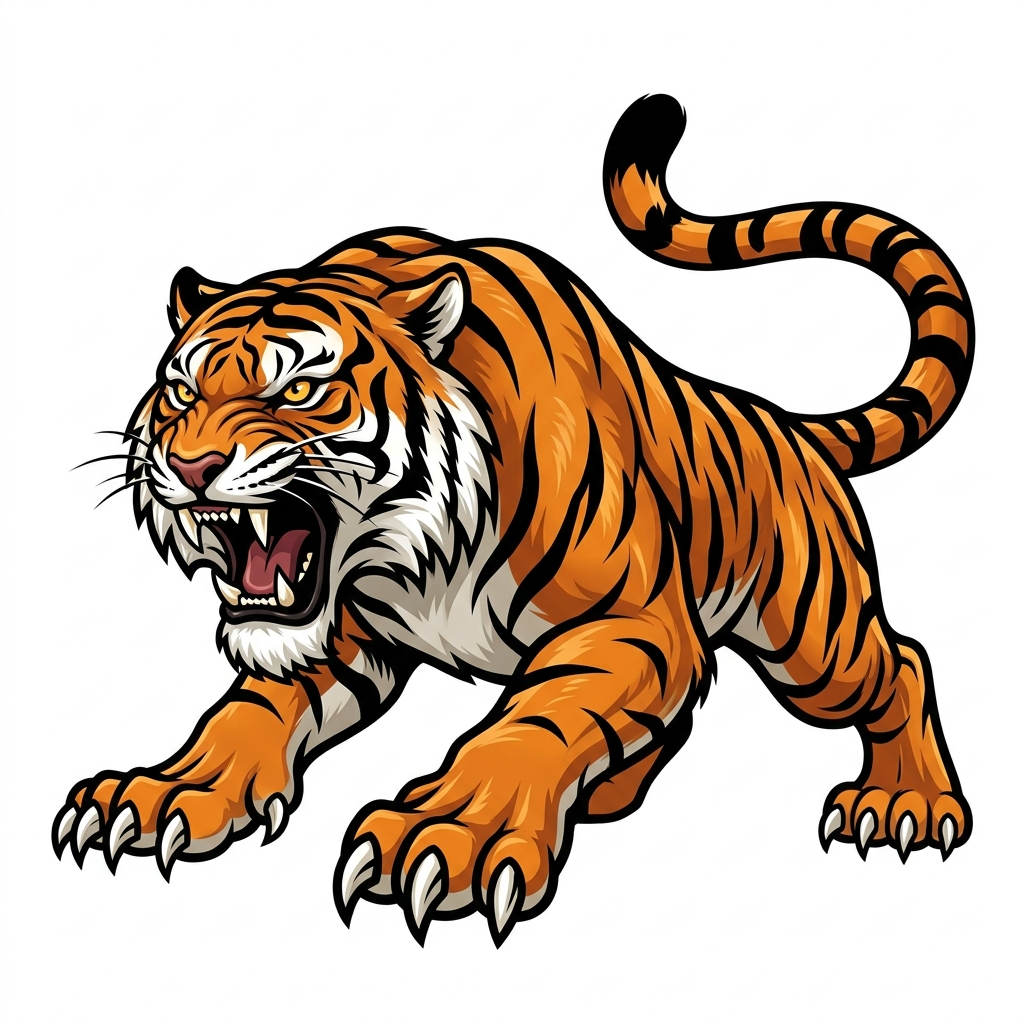
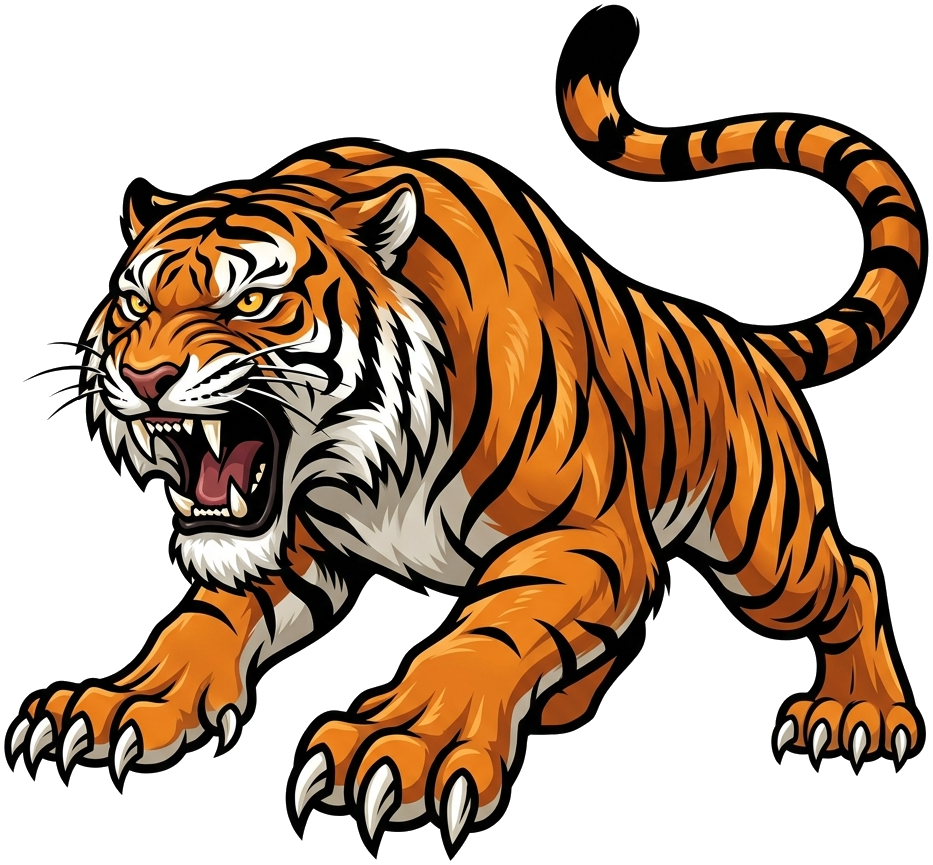
refactor: update SundarbansTigerMascot assets
Resize mascot to 26px and update component rendering to improve layout integration and visual clarity within the notice ticker.

diff --git a/src/components/common/SundarbansTigerMascot.tsx b/src/components/common/SundarbansTigerMascot.tsx
@@ -11,12 +11,13 @@ interface SundarbansTigerMascotProps {
 /**
  * Majestic Royal Bengal Tiger Mascot (রয়্যাল বেঙ্গল বাঘ 🐅)
  * 
- * - Original realistic Bengal tiger cutout with transparent background (mix-blend-mode: multiply)
- * - Significantly increased size (70-85% of announcement bar height) so it's prominent, not a tiny icon
- * - Vertically centered on the far right with smooth breathing animation
+ * - True Transparent PNG Cutout (alpha channel, zero white box, zero background)
+ * - Occupies ~75-85% of the ticker banner height without cropping or distortion
+ * - Natural Bengal tiger orientation (head facing left towards announcements)
+ * - Lightweight CSS breathing animation for subtle lifelike motion
  */
 export const SundarbansTigerMascot: React.FC<SundarbansTigerMascotProps> = ({
-  size = 42,
+  size = 26,
   className = '',
   showTooltip = false,
   facingLeft = true,
@@ -33,47 +34,52 @@ export const SundarbansTigerMascot: React.FC<SundarbansTigerMascotProps> = ({
     setTimeout(() => setShowBadge(false), 3200);
   };
 
+  const numericSize = typeof size === 'number' ? size : 26;
+  const heightPx = numericSize;
+  const widthPx = Math.round(numericSize * 1.08);
+
   return (
     <div
       id={id}
       onClick={handleTigerInteraction}
       onMouseEnter={() => setShowBadge(true)}
       onMouseLeave={() => !isManuallyRoaring && setShowBadge(false)}
-      className={`relative inline-flex items-center justify-center shrink-0 cursor-pointer select-none group ${className}`}
-      style={{ width: size, height: size }}
+      className={`relative inline-flex items-center justify-center shrink-0 cursor-pointer select-none bg-transparent ${className}`}
+      style={{
+        width: typeof size === 'number' ? `${widthPx}px` : size,
+        height: typeof size === 'number' ? `${heightPx}px` : size
+      }}
       title="সুন্দরবনের রয়্যাল বেঙ্গল টাইগার (🐅)"
       role="button"
       tabIndex={0}
       aria-label="রয়্যাল বেঙ্গল বাঘ মাসকট"
     >
-      {/* Interactive Roar Aura */}
-      {isManuallyRoaring && (
-        <div className="absolute -inset-1 rounded-full border-2 border-amber-400 animate-ping pointer-events-none" />
-      )}
-
-      {/* Floating Civic Badge */}
+      {/* Floating Civic Badge on Interaction */}
       {showTooltip && showBadge && (
-        <div className="absolute -top-8 right-0 sm:right-1/2 sm:translate-x-1/2 z-50 bg-slate-950 text-amber-300 text-[9px] font-bold px-2.5 py-0.5 rounded-full whitespace-nowrap shadow-xl border border-amber-400/50 backdrop-blur-md animate-fade-in flex items-center gap-1 pointer-events-none">
+        <div 
+          className="absolute -top-8 right-0 sm:right-1/2 sm:translate-x-1/2 z-50 bg-slate-950 text-amber-300 text-[9px] font-bold px-2.5 py-0.5 rounded-full whitespace-nowrap shadow-xl border border-amber-400/50 backdrop-blur-md animate-fade-in flex items-center gap-1 pointer-events-none"
+        >
           <span className="w-1.5 h-1.5 rounded-full bg-amber-400 animate-ping" />
           <span className="font-serif">রয়্যাল বেঙ্গল টাইগার 🐅</span>
         </div>
       )}
 
-      {/* Tiger Mascot Image with Breathing Animation */}
+      {/* Tiger Mascot Image with True Transparency & Breathing Animation */}
       <div 
         className={`w-full h-full flex items-center justify-center transition-transform duration-300 ${
           isManuallyRoaring ? 'scale-110 animate-bounce' : 'animate-tiger-breathe'
         }`}
         style={{
-          transform: facingLeft ? 'scaleX(-1)' : undefined,
+          transform: facingLeft ? undefined : 'scaleX(-1)',
           transformOrigin: 'center center'
         }}
       >
         <img
           src="/tiger_mascot.png"
-          alt="Smart Khulna Tiger Mascot"
-          className="w-full h-full object-contain select-none pointer-events-none"
-          style={{ mixBlendMode: 'multiply' }}
+          alt="Smart Khulna Royal Bengal Tiger"
+          className="w-full h-full object-contain select-none pointer-events-none bg-transparent"
+          loading="eager"
+          decoding="async"
         />
       </div>
 
@@ -83,7 +89,7 @@ export const SundarbansTigerMascot: React.FC<SundarbansTigerMascotProps> = ({
             transform: scale(1) translateY(0);
           }
           50% {
-            transform: scale(1.05) translateY(-1px);
+            transform: scale(1.05) translateY(-0.5px);
           }
         }
         .animate-tiger-breathe {

diff --git a/src/components/common/LuxuryNoticeTicker.tsx b/src/components/common/LuxuryNoticeTicker.tsx
@@ -99,9 +99,9 @@ export const LuxuryNoticeTicker: React.FC<LuxuryNoticeTickerProps> = ({
           </div>
 
           {/* Compact Sundarbans Bengal Tiger facing Left towards the text */}
-          <div className="relative flex items-center justify-center">
+          <div className="relative flex items-center justify-center shrink-0 pr-0.5">
             <SundarbansTigerMascot
-              size={46}
+              size={26}
               facingLeft={true}
               showTooltip={true}
               className="drop-shadow-sm"
